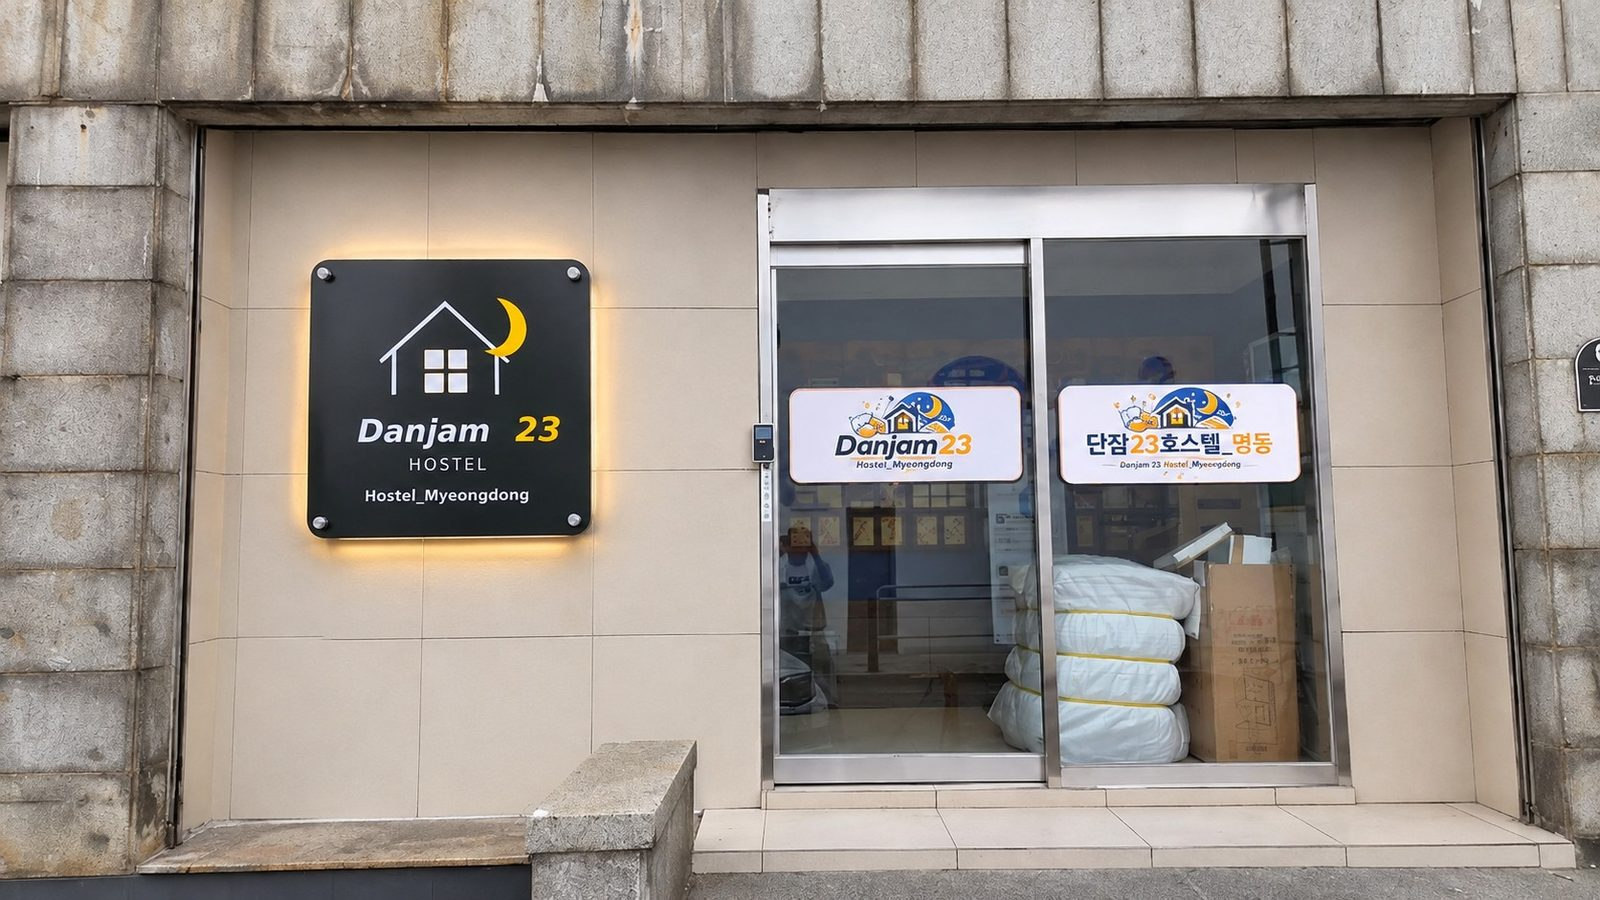
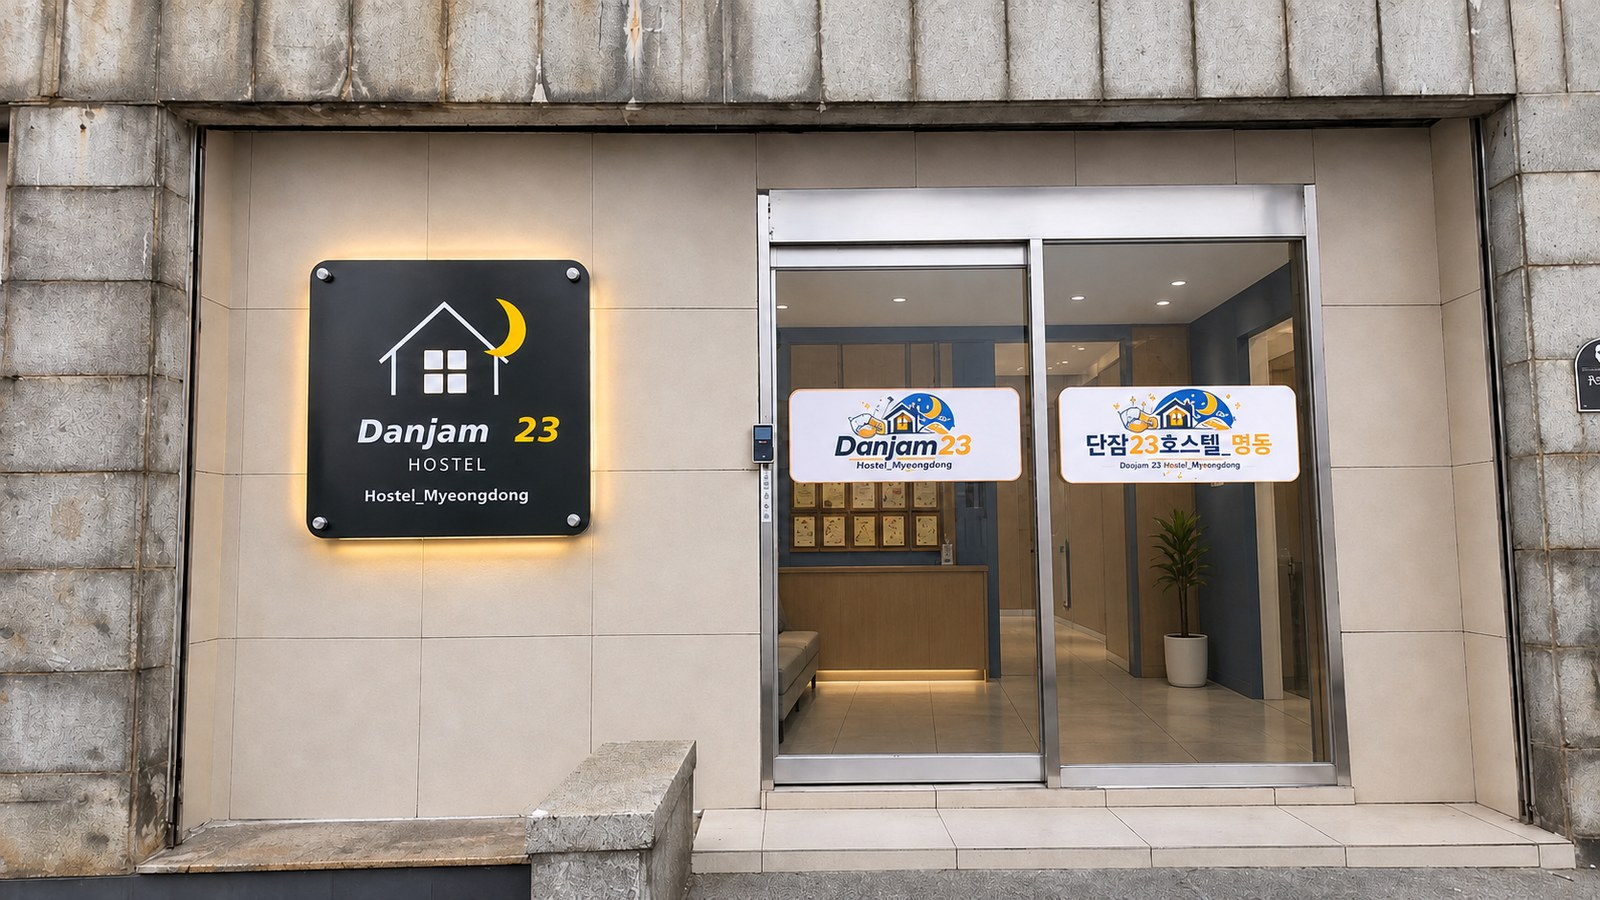
chore: 입구 유리문 안쪽 짐·반사 제거 보정 사진 반영 및 캐시 v10 갱신

diff --git a/sw.js b/sw.js
@@ -1,5 +1,5 @@
 /* 단잠 23 — 홈 화면 앱(PWA) 캐시. 파일을 새로 올리면 VERSION 숫자를 올려 주세요. */
-var VERSION = 'danjam23-v9';
+var VERSION = 'danjam23-v10';
 var CORE = [
   './',
   './index.html',
